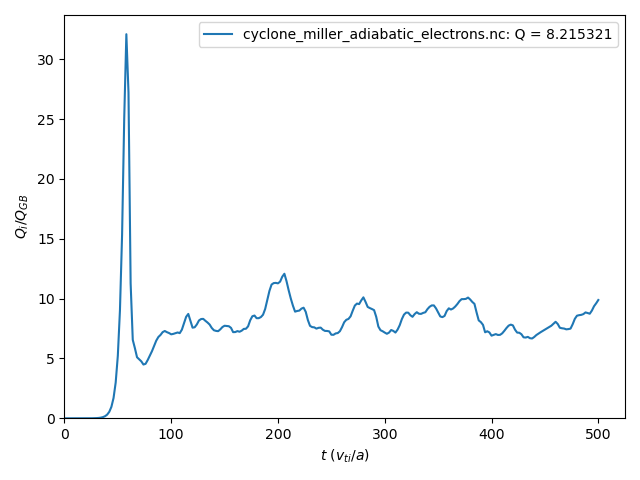
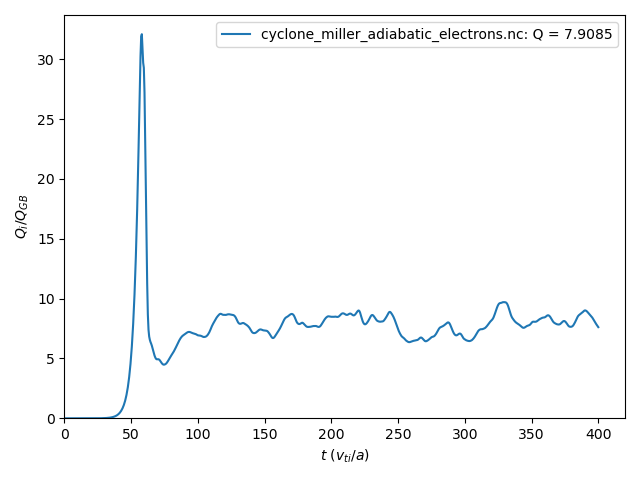
add README for nonlinear cyclone benchmark. update nonlinear example docs to use the post_processing/heat_flux.py script included in the repo.

diff --git a/post_processing/heat_flux.py b/post_processing/heat_flux.py
@@ -50,5 +50,6 @@ if __name__ == "__main__":
         except:
             print(' usage: python heat_flux.py [list of .nc files]')
     
+    # uncomment this line to save a PNG image of the plot
     #plt.savefig("heat_flux.png")
     plt.show()

diff --git a/docs/Nonlinear.rst b/docs/Nonlinear.rst
@@ -63,8 +63,8 @@ Time
 .. code-block:: toml
 
   [Time]
-   dt = 0.02              # timestep size (in units of L_ref/vt_ref)
-   nstep = 20000          # number of timesteps
+   dt = 0.05              # timestep size (in units of L_ref/vt_ref)
+   nstep = 8000           # number of timesteps
    scheme = "sspx3"       # use SSPx3 timestepping scheme
 
 As in the :ref:`linear <lintime>` case, the timestep size ``dt`` must be small enough to resolve all frequencies in the system. We can take larger (stable) timesteps here than in the linear case because ``nhermite`` is smaller here.
@@ -205,32 +205,11 @@ Plotting the results
 Heat flux
 =========
 
-We can plot the ion heat flux using the following python script:
+We can plot the ion heat flux using a python script included in the ``post_processing`` directory. From the ``benchmarks/nonlinear/cyclone`` directory, this can be done using
 
-.. code-block:: python
+.. code-block:: bash
 
-  import numpy as np
-  import matplotlib.pyplot as plt
-  import sys
-  from netCDF4 import Dataset
-  
-  plt.figure()
-  
-  stem = "cyclone_miller_adiabatic_electrons"
-  data = Dataset("%s.nc" % stem, mode='r')
-  t = data.variables['time'][:]
-  q = data.groups['Fluxes'].variables['qflux'][:,0]
-  
-  qavg = np.mean(q[int(len(t)/2):])
-  qstd = np.std(q[int(len(t)/2):])
-  plt.plot(t,q,'-',label="%s: Q = %f"%(stem, qavg))
-  
-  plt.xlim(0)
-  plt.ylim(0)
-  plt.ylabel("$Q_i/Q_{GB}$")
-  plt.xlabel("$t\ (v_{ti}/a)$")
-  plt.legend()
-  plt.show()
+  python ../../../heat_flux cyclone_miller_adiabatic_electrons.nc
 
 .. figure:: figures/nl_miller_adiabatic_electrons_qflux.png
    :align: center

diff --git a/benchmarks/nonlinear/cyclone/README.md b/benchmarks/nonlinear/cyclone/README.md
@@ -1,0 +1,13 @@
+This test runs a nonlinear ITG turbulence calculation using a circular Miller geometry with Cyclone-base-case-like parameters.
+This test uses a Boltzmann adiabatic electron response.
+
+To run the test, simply use 
+```
+[/path/to/]gx cyclone_miller_adiabatic_electrons.in
+```
+
+To plot the turbulent heat flux, use
+```
+python ../../../post_processing/heat_flux.py cyclone_miller_adiabatic_electrons.nc
+```
+
